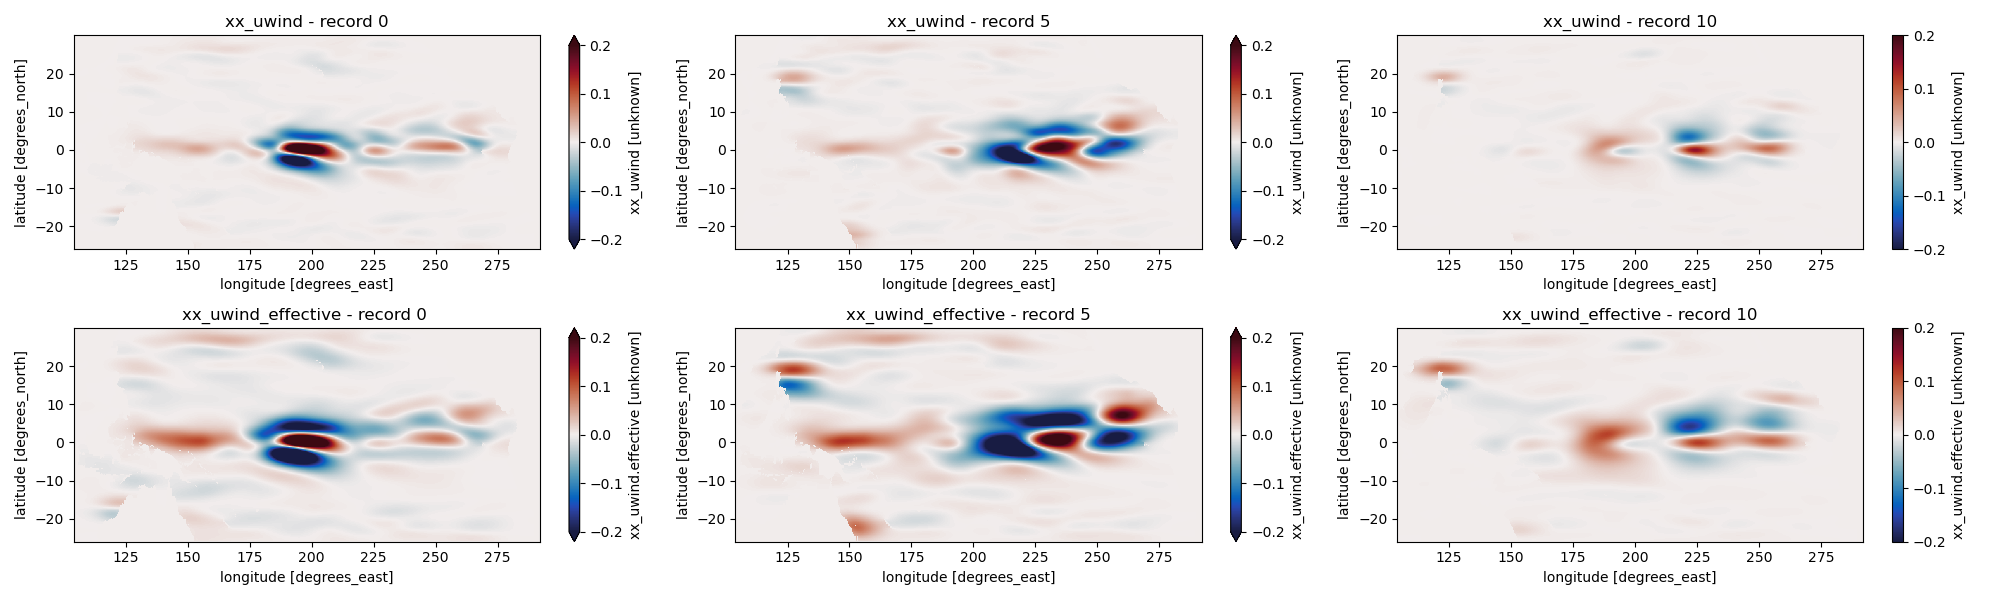
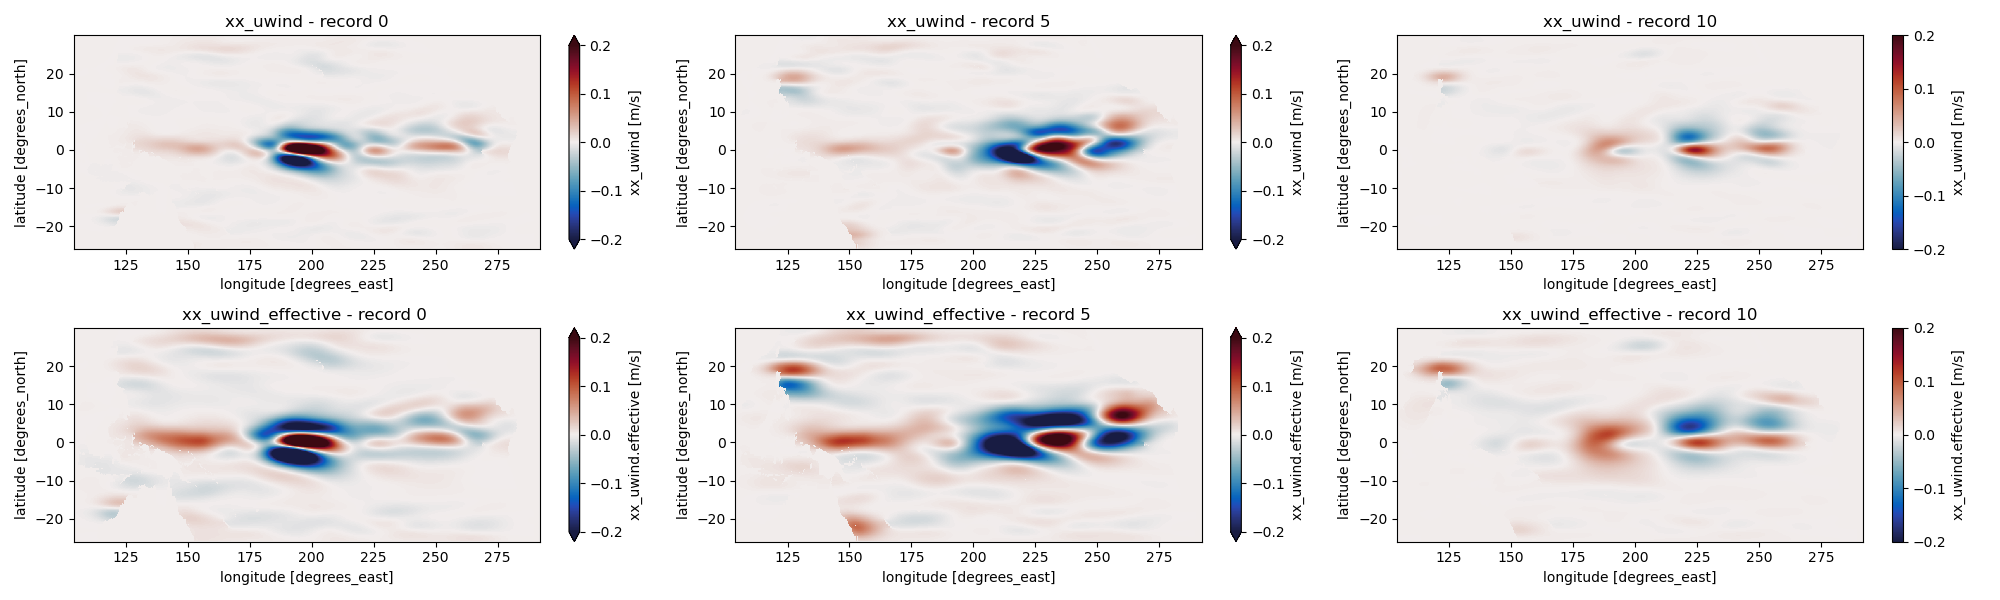
adding units to controls files on read in

diff --git a/controls_utils.py b/controls_utils.py
@@ -15,6 +15,69 @@ except ImportError:
 from xmitgcm import open_mdsdataset
 
 
+# Known units for MITgcm control variables
+CONTROL_VARIABLE_UNITS = {
+    # Ocean velocities
+    'xx_uvel': 'm/s',
+    'xx_vvel': 'm/s',
+    'adxx_uvel': 'm/s',
+    'adxx_vvel': 'm/s',
+    
+    # Wind velocities
+    'xx_uwind': 'm/s',
+    'xx_vwind': 'm/s', 
+    'adxx_uwind': 'm/s',
+    'adxx_vwind': 'm/s',
+    
+    # Temperature
+    'xx_theta': 'deg C',
+    'xx_atemp': 'K',
+    'adxx_theta': 'deg C',
+    'adxx_atemp': 'K',
+    
+    # Salinity
+    'xx_salt': 'psu',
+    'adxx_salt': 'psu',
+    
+    # Specific humidity
+    'xx_aqh': 'kg/kg',
+    'adxx_aqh': 'kg/kg',
+    
+    # Radiation
+    'xx_lwdown': 'W/m^2',
+    'xx_swdown': 'W/m^2',
+    'adxx_lwdown': 'W/m^2',
+    'adxx_swdown': 'W/m^2',
+    
+    # Precipitation
+    'xx_precip': 'm/s',
+    'adxx_precip': 'm/s'
+}
+
+
+def _get_variable_units(var_name):
+    """
+    Get the units for a control variable, including effective versions.
+    
+    Parameters
+    ----------
+    var_name : str
+        Variable name (e.g., 'xx_theta', 'adxx_salt.effective')
+        
+    Returns
+    -------
+    str
+        Units string, or 'unknown' if not found
+    """
+    # For .effective variables, look up the base variable units
+    # but keep the original name intact
+    if '.effective' in var_name:
+        base_name = var_name.replace('.effective', '')
+        return CONTROL_VARIABLE_UNITS.get(base_name, 'unknown')
+    else:
+        return CONTROL_VARIABLE_UNITS.get(var_name, 'unknown')
+
+
 def load_controls_and_sensitivities(data_dir, grid_dir, iteration, 
                                     control_vars=None, sensitivity_vars=None, 
                                     effective_vars=None, load_grid_ds=True):
@@ -50,11 +113,11 @@ def load_controls_and_sensitivities(data_dir, grid_dir, iteration,
     # Default variable lists
     if control_vars is None:
         control_vars = ['xx_theta', 'xx_salt', 'xx_uwind', 'xx_vwind', 
-                       'xx_atemp', 'xx_aqh', 'xx_lwdown', 'xx_precip', 'xx_swdown']
+                       'xx_atemp', 'xx_aqh', 'xx_lwdown', 'xx_precip', 'xx_swdown','xx_vvel','xx_uvel']
     
     if sensitivity_vars is None:
         sensitivity_vars = ['adxx_theta', 'adxx_salt', 'adxx_uwind', 'adxx_vwind',
-                           'adxx_atemp', 'adxx_aqh', 'adxx_lwdown', 'adxx_precip', 'adxx_swdown']
+                           'adxx_atemp', 'adxx_aqh', 'adxx_lwdown', 'adxx_precip', 'adxx_swdown','adxx_vvel','adxx_uvel']
     
     if effective_vars is None:
         effective_vars = [var + '.effective' for var in control_vars]
@@ -338,7 +401,7 @@ def _create_dataarray_from_rdmds(data, meta, var_name, grid_ds=None):
         coords=coords,
         name=var_name,
         attrs={
-            'units': 'unknown',
+            'units': _get_variable_units(var_name),
             'long_name': var_name,
             'source': 'MITgcm rdmds',
             'dataprec': meta.get('dataprec', ['unknown'])[0],
